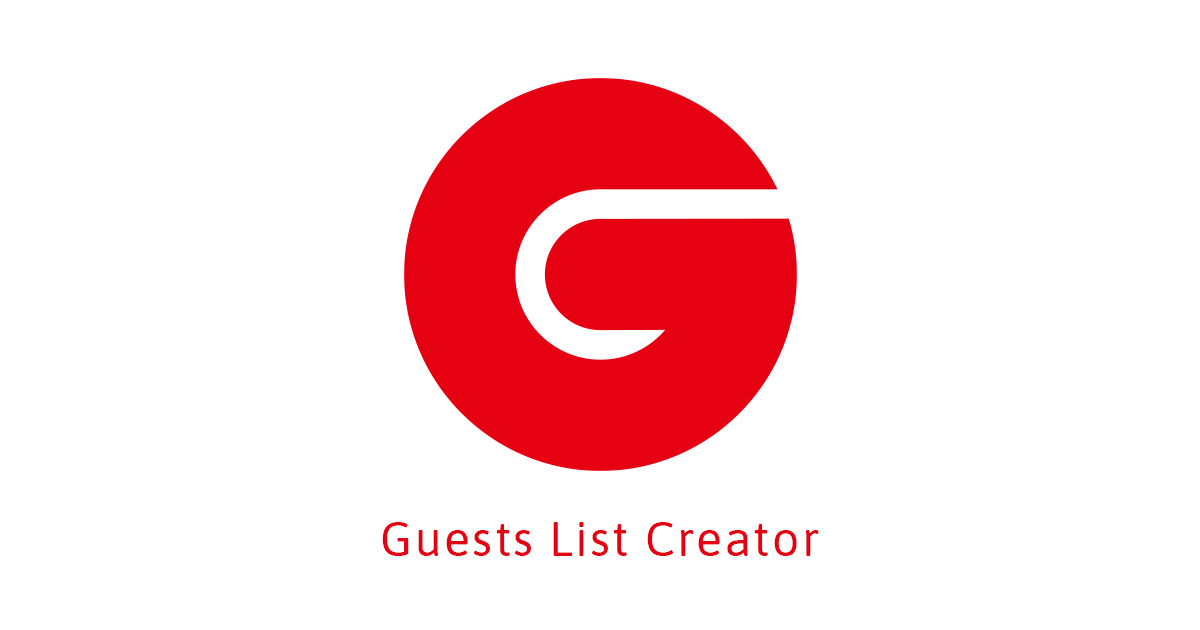
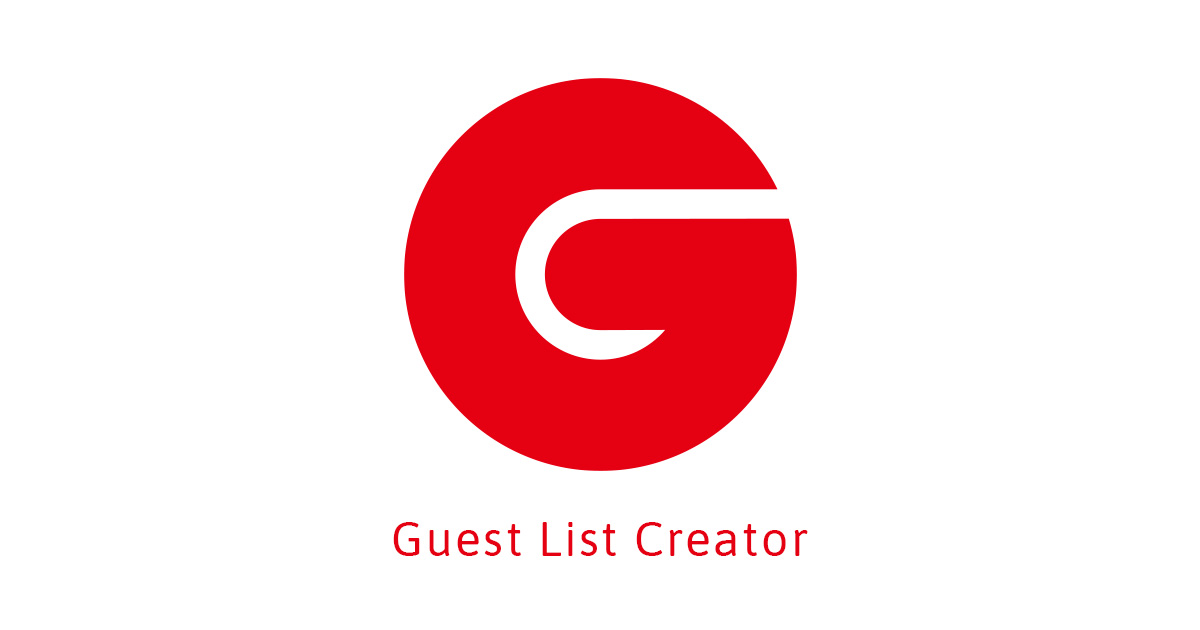
単数形でした

Changed region(s): [[0.3083, 0.8143, 0.6783, 0.9048]]

diff --git a/nuxt.config.js b/nuxt.config.js
@@ -1,4 +1,4 @@
-const SITE_TITLE = 'Guests list creator'
+const SITE_TITLE = 'Guest list creator'
 const SITE_DESCRIPTION = 'Easily and simply create a list of guests!'
 const SITE_URL = 'http://guests.tokyosession.tokyo'
 module.exports = {
